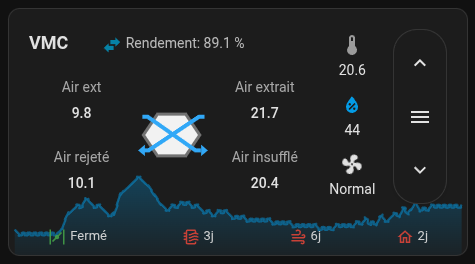
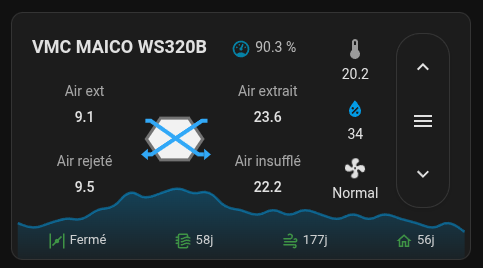
feat: Implement internationalization, enhance history graph smoothing and downsampling, and refine filter entity detection.

diff --git a/ha-maicows-card/src/ha-maicows-card.js b/ha-maicows-card/src/ha-maicows-card.js
@@ -30,6 +30,61 @@ const EXCHANGER_SVG = `
 </svg>
 `;
 
+// Translations
+const TRANSLATIONS = {
+  en: {
+    efficiency: "Efficiency",
+    temp_outdoor: "Outdoor Air",
+    temp_exhaust: "Exhaust Air",
+    temp_extract: "Extract Air",
+    temp_supply: "Supply Air",
+    open: "Open",
+    closed: "Closed",
+    filter_device: "Device Filter",
+    filter_outdoor: "Outdoor Filter",
+    filter_room: "Room Filter",
+    mode_off: "Off",
+    mode_auto: "Humidity",
+    mode_low: "Reduced",
+    mode_medium: "Normal",
+    mode_high: "Intensive",
+  },
+  fr: {
+    efficiency: "Rendement",
+    temp_outdoor: "Air ext",
+    temp_exhaust: "Air rejeté",
+    temp_extract: "Air extrait",
+    temp_supply: "Air insufflé",
+    open: "Ouvert",
+    closed: "Fermé",
+    filter_device: "Filtre appareil",
+    filter_outdoor: "Filtre extérieur",
+    filter_room: "Filtre pièce",
+    mode_off: "Arrêt",
+    mode_auto: "Humidité",
+    mode_low: "Réduit",
+    mode_medium: "Normal",
+    mode_high: "Intensif",
+  },
+  de: {
+    efficiency: "Wirkungsgrad",
+    temp_outdoor: "Außenluft",
+    temp_exhaust: "Fortluft",
+    temp_extract: "Abluft",
+    temp_supply: "Zuluft",
+    open: "Offen",
+    closed: "Geschlossen",
+    filter_device: "Gerätefilter",
+    filter_outdoor: "Außenfilter",
+    filter_room: "Raumfilter",
+    mode_off: "Aus",
+    mode_auto: "Feuchte",
+    mode_low: "Reduziert",
+    mode_medium: "Normal",
+    mode_high: "Intensiv",
+  }
+};
+
 class MaicoVMCCard extends LitElement {
   static get properties() {
     return {
@@ -38,6 +93,11 @@ class MaicoVMCCard extends LitElement {
       _entities: { type: Object },
       _history: { type: Array },
     };
+  }
+
+  _localize(key) {
+    const lang = this.hass?.language || "en";
+    return (TRANSLATIONS[lang] && TRANSLATIONS[lang][key]) || TRANSLATIONS["en"][key] || key;
   }
 
   constructor() {
@@ -122,19 +182,27 @@ class MaicoVMCCard extends LitElement {
     const height = 80;
     const padding = 5;
 
-    const values = this._history.map((p) => p.value);
+    // Downsample to max 30 points for smoother curve
+    let data = this._history;
+    const maxPoints = 30;
+    if (data.length > maxPoints) {
+      const step = Math.ceil(data.length / maxPoints);
+      data = data.filter((_, i) => i % step === 0 || i === data.length - 1);
+    }
+
+    const values = data.map((p) => p.value);
     const minVal = Math.min(...values) - 5;
     const maxVal = Math.max(...values) + 5;
     const range = maxVal - minVal || 1;
 
     // Calculate points
-    const coords = this._history.map((point, i) => {
-      const x = padding + (i / (this._history.length - 1)) * (width - 2 * padding);
+    const coords = data.map((point, i) => {
+      const x = padding + (i / (data.length - 1)) * (width - 2 * padding);
       const y = height - padding - ((point.value - minVal) / range) * (height - 2 * padding);
       return { x, y };
     });
 
-    // Create smooth cubic bezier curve path
+    // Create smooth cubic bezier curve path (Catmull-Rom spline)
     let path = `M ${coords[0].x},${coords[0].y}`;
 
     for (let i = 0; i < coords.length - 1; i++) {
@@ -143,8 +211,8 @@ class MaicoVMCCard extends LitElement {
       const p2 = coords[i + 1];
       const p3 = coords[i + 2 >= coords.length ? i + 1 : i + 2];
 
-      // Catmull-Rom to Cubic Bezier conversion
-      const tension = 0.8;
+      // Catmull-Rom to Cubic Bezier conversion - lower tension = smoother
+      const tension = 0.25;
       const cp1x = p1.x + (p2.x - p0.x) * tension;
       const cp1y = p1.y + (p2.y - p0.y) * tension;
       const cp2x = p2.x - (p3.x - p1.x) * tension;
@@ -210,15 +278,21 @@ class MaicoVMCCard extends LitElement {
       (e) => e.includes("maico") && (e.includes("bypass") || e.includes("etat_bypass"))
     );
 
-    // Find filter sensors (3 types) - English, French and German patterns
+    // Find filter sensors (3 types) - prefer remaining days
     entities.filter_device = allEntities.find(
-      (e) => e.includes("maico") && (e.includes("filter_device") || e.includes("filtre_appareil") || e.includes("geratefilter"))
+      (e) => e.includes("maico") &&
+        (e.includes("filter_device") || e.includes("filtre_appareil") || e.includes("geratefilter")) &&
+        (e.includes("days") || e.includes("jours") || e.includes("restant") || e.includes("verbleibend"))
     );
     entities.filter_outdoor = allEntities.find(
-      (e) => e.includes("maico") && (e.includes("filter_outdoor") || e.includes("filtre_exterieur") || e.includes("filtre_ext") || e.includes("aussenfilter"))
+      (e) => e.includes("maico") &&
+        (e.includes("filter_outdoor") || e.includes("filtre_exterieur") || e.includes("filtre_ext") || e.includes("aussenfilter")) &&
+        (e.includes("days") || e.includes("jours") || e.includes("restant") || e.includes("verbleibend"))
     );
     entities.filter_room = allEntities.find(
-      (e) => e.includes("maico") && (e.includes("filter_room") || e.includes("filtre_piece") || e.includes("filtre_interieur") || e.includes("raumfilter"))
+      (e) => e.includes("maico") &&
+        (e.includes("filter_room") || e.includes("filtre_piece") || e.includes("filtre_interieur") || e.includes("raumfilter")) &&
+        (e.includes("days") || e.includes("jours") || e.includes("restant") || e.includes("verbleibend"))
     );
 
     return entities;
@@ -237,11 +311,11 @@ class MaicoVMCCard extends LitElement {
 
   _getFanModeLabel(mode) {
     const modes = {
-      off: "Arrêt",
-      auto: "Humidité",
-      low: "Réduit",
-      medium: "Normal",
-      high: "Intensif",
+      off: this._localize("mode_off"),
+      auto: this._localize("mode_auto"),
+      low: this._localize("mode_low"),
+      medium: this._localize("mode_medium"),
+      high: this._localize("mode_high"),
     };
     return modes[mode] || mode || "—";
   }
@@ -357,9 +431,9 @@ class MaicoVMCCard extends LitElement {
               <div class="header-center">
                 ${this.config.show_efficiency
         ? html`
-                      <span class="efficiency">
-                        <ha-icon icon="mdi:swap-horizontal-bold"></ha-icon>
-                        Rendement: ${efficiency} %
+                      <span class="efficiency" title="${this._localize("efficiency")}">
+                        <ha-icon icon="mdi:gauge"></ha-icon>
+                        ${efficiency} %
                       </span>
                     `
         : ""}
@@ -370,11 +444,11 @@ class MaicoVMCCard extends LitElement {
             <div class="card-content">
               <!-- Left temperatures -->
               <div class="temp-info left-top">
-                <span class="temp-label">Air ext</span>
+                <span class="temp-label">${this._localize("temp_outdoor")}</span>
                 <span class="temp-value">${this._getState(entities.temp_inlet)}</span>
               </div>
               <div class="temp-info left-bottom">
-                <span class="temp-label">Air rejeté</span>
+                <span class="temp-label">${this._localize("temp_exhaust")}</span>
                 <span class="temp-value">${this._getState(entities.temp_exhaust)}</span>
               </div>
 
@@ -383,11 +457,11 @@ class MaicoVMCCard extends LitElement {
 
               <!-- Right temperatures -->
               <div class="temp-info right-top">
-                <span class="temp-label">Air extrait</span>
+                <span class="temp-label">${this._localize("temp_extract")}</span>
                 <span class="temp-value">${this._getState(entities.temp_extract)}</span>
               </div>
               <div class="temp-info right-bottom">
-                <span class="temp-label">Air insufflé</span>
+                <span class="temp-label">${this._localize("temp_supply")}</span>
                 <span class="temp-value">${this._getState(entities.temp_supply)}</span>
               </div>
             </div>
@@ -444,7 +518,7 @@ class MaicoVMCCard extends LitElement {
         ? html`
                 <div class="footer-item bypass ${bypassState === "on" ? "open" : "closed"}">
                   <ha-icon icon="mdi:valve"></ha-icon>
-                  <span>${bypassState === "on" ? "Ouvert" : "Fermé"}</span>
+                  <span>${bypassState === "on" ? this._localize("open") : this._localize("closed")}</span>
                 </div>
               `
         : ""}
@@ -452,7 +526,7 @@ class MaicoVMCCard extends LitElement {
         ? html`
                 <div class="footer-item filter ${parseInt(filterDevice) < 30 ? "warning" : ""}">
                   <ha-icon icon="mdi:air-filter"></ha-icon>
-                  <span title="Filtre appareil">${filterDevice}j</span>
+                  <span title="${this._localize("filter_device")}">${filterDevice}j</span>
                 </div>
               `
         : ""}
@@ -460,7 +534,7 @@ class MaicoVMCCard extends LitElement {
         ? html`
                 <div class="footer-item filter ${parseInt(filterOutdoor) < 30 ? "warning" : ""}">
                   <ha-icon icon="mdi:weather-windy"></ha-icon>
-                  <span title="Filtre extérieur">${filterOutdoor}j</span>
+                  <span title="${this._localize("filter_outdoor")}">${filterOutdoor}j</span>
                 </div>
               `
         : ""}
@@ -468,7 +542,7 @@ class MaicoVMCCard extends LitElement {
         ? html`
                 <div class="footer-item filter ${parseInt(filterRoom) < 30 ? "warning" : ""}">
                   <ha-icon icon="mdi:home-outline"></ha-icon>
-                  <span title="Filtre pièce">${filterRoom}j</span>
+                  <span title="${this._localize("filter_room")}">${filterRoom}j</span>
                 </div>
               `
         : ""}
@@ -548,21 +622,32 @@ class MaicoVMCCard extends LitElement {
       }
 
       .card-header {
-        display: grid;
-        grid-template-columns: 1fr auto 1fr;
+        display: flex;
         align-items: center;
         margin-bottom: 8px;
         cursor: pointer;
         min-height: 24px;
+        gap: 8px;
       }
       
-      .header-left { justify-self: start; }
-      .header-center { justify-self: center; }
-      .header-right { justify-self: end; }
+      .header-left { 
+        flex: 0 1 auto;
+        min-width: 0;
+      }
+      .header-center { 
+        flex: 1;
+        display: flex;
+        justify-content: center;
+        min-width: 0;
+      }
+      .header-right { 
+        flex: 0 0 auto;
+      }
 
       .name {
         font-size: 18px;
         font-weight: bold;
+        white-space: nowrap;
       }
 
       .efficiency {
@@ -571,6 +656,10 @@ class MaicoVMCCard extends LitElement {
         gap: 4px;
         font-size: 14px;
         opacity: 0.8;
+        white-space: nowrap;
+        overflow: hidden;
+        text-overflow: ellipsis;
+        max-width: 100%;
       }
 
       .efficiency ha-icon {
@@ -907,7 +996,7 @@ window.customCards.push({
 });
 
 console.info(
-  "%c MAICO-VMC-CARD %c 1.0.0",
+  "%c MAICO-VMC-CARD %c 1.1.0",
   "color: white; background: #039be5; font-weight: bold;",
   "color: #039be5; background: white; font-weight: bold;"
 );
